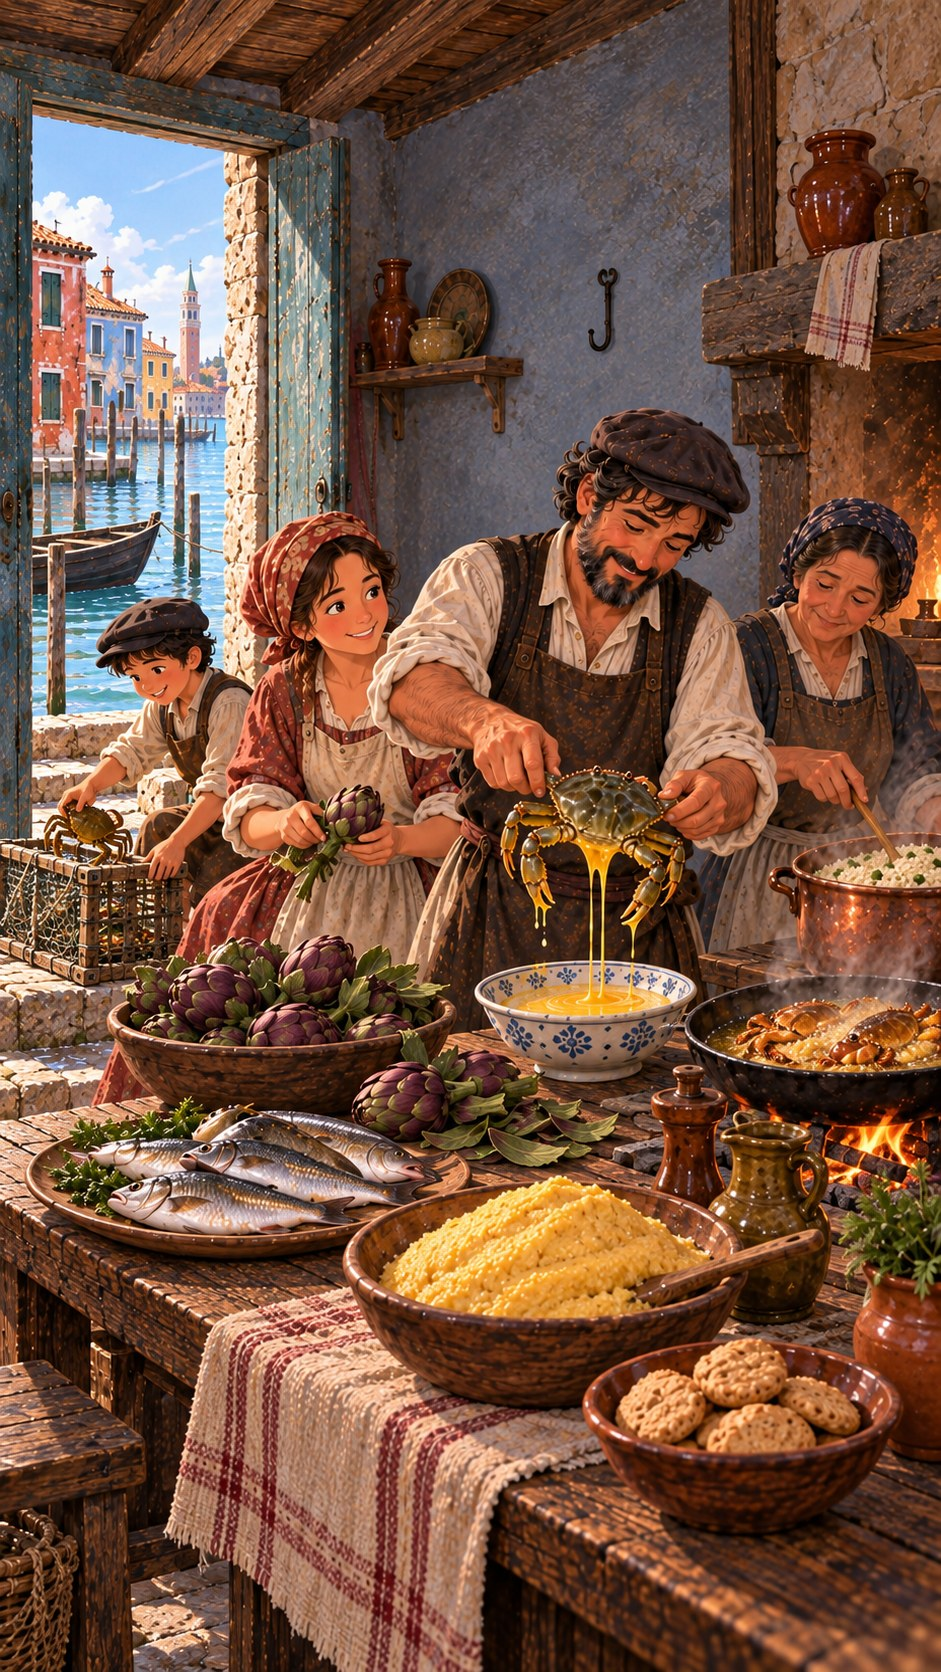
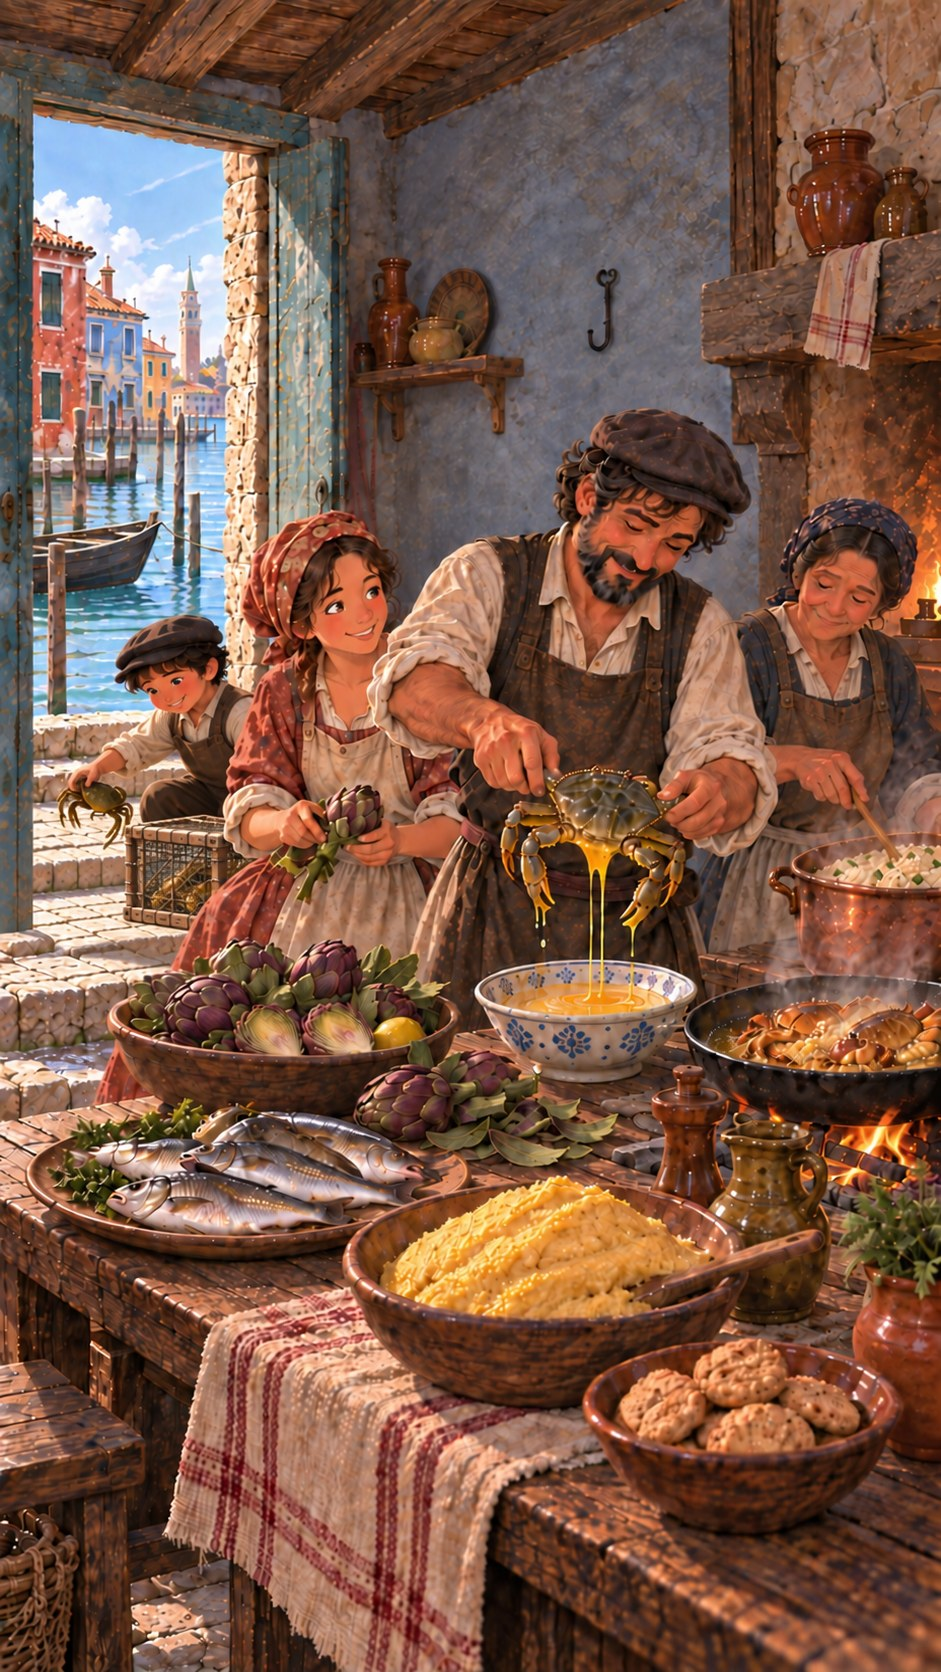
Italy: laguna portrait regenerated once, rejected again (cage dry and hidden); one picture outstanding

diff --git a/docs/italy-world.md b/docs/italy-world.md
@@ -304,7 +304,7 @@ Three smaller items for whoever opens Stage B: teach `scripts/audit/objects.mjs`
 
 All 46 files arrived in `~/Downloads/additional game asset/italy/` with `italy_concept_layout_note.md`, which is the generator's own claim about the concept and was not treated as evidence. Every picture was inspected against [art direction](art-direction.md) section 8 and Part E of the [image brief](italy-image-brief.md), at reduced size for the whole frame and at full resolution where a detail decided a verdict. Sizes were read out of the PNG headers rather than from the note.
 
-**45 accepted, 1 rejected.** The one reject is a portrait whose first discovery subject falls outside the phone band. Three portraits delivered one pixel short (941 x 1671) are accepted: the importer pads a shortfall of at most 2 px to the exact target by replicating the last row or column, so all three now land at 941 x 1672. Nothing was rejected on taste.
+**45 accepted, 1 rejected; after one regeneration on 2026-09-21 that picture is rejected again, so one picture is still outstanding.** The reject is a portrait whose first discovery subject fell outside the phone band; its regeneration brought the subject inside the band and cut the artichokes as asked, but lifted the crab cage out of the water onto dry paving and emptied it of visible crabs, which is a new fault in the same subject, so it is sent back a second time. Three portraits delivered one pixel short (941 x 1671) are accepted: the importer pads a shortfall of at most 2 px to the exact target by replicating the last row or column, so all three now land at 941 x 1672. Nothing was rejected on taste.
 
 | File | Verdict | Reason |
 | --- | --- | --- |
@@ -324,7 +324,7 @@ All 46 files arrived in `~/Downloads/additional game asset/italy/` with `italy_c
 | `it07_bacaro_wide.png` | Accepted | An osteria, not a cicchetti bar: six dishes and no more, wine drawn from the cask's brass tap into a small glass standing on the counter, half full; empty brass chain with a ring over a clear part of the counter; no toothpick row, no display case, no spritz, no labels |
 | `it07_bacaro_portrait.png` | Accepted | Salt cod on polenta, sardines under onions, cask and tap all inside the band; chain and ring at x ≈ .51 |
 | `it08_laguna_wide.png` | Accepted | Soft crab lifted out of the beaten egg with the egg running back into the bowl, floating cage at the step, frying pan and rice the only hot vessels; empty iron hook on plain render; nobody in the canal |
-| `it08_laguna_portrait.png` | **Rejected** | Discovery subject one, the floating cage of soft crabs, sits at x ≈ .00 to .17 and is cut by the phone band; the purple artichokes are also whole rather than cut in half. *Regenerate `it08_laguna_portrait.png` at 941 x 1672: move the floating crab cage and the boy at the step inward so the whole cage sits between x .094 and .906 of the width, and show two of the small purple artichokes cut in half with their cut faces toward the viewer; keep the crab lifted dripping out of the beaten egg, the empty iron hook on the plain painted wall and the open door onto the canal.* |
+| `it08_laguna_portrait.png` | **Rejected (round two, 2026-09-21)** | Round one: discovery subject one, the floating cage of soft crabs, sat at x ≈ .00 to .17 and was cut by the phone band; the purple artichokes were whole rather than cut in half. The regeneration delivered 941 x 1672 exactly and fixes both faults — the cage now sits at x ≈ .14 to .24, well inside the band, and two purple artichokes in the bowl are cut in half with their pale cut faces toward the viewer — and the empty iron hook is unmoved and still empty on the plain grey render (x ≈ .64), the crab still lifts dripping out of the beaten egg, the door still opens onto the canal, and there is no text, no modern object and no steam over the cold food. But it introduces a new fault in the same subject it was sent back to fix: the cage is no longer **the floating cage of soft crabs at the step** the brief names. It stands dry on the paving two courses above the waterline with no hand on it, its contents read as straw and indistinct gold shapes rather than small green crabs, and its right side is covered by the girl's skirt and arm — so subject one is neither the briefed subject nor unobstructed, and the portrait no longer agrees with its accepted wide, where the cage is half in the water with the boy's hand on it. *Regenerate `it08_laguna_portrait.png` at 941 x 1672: keep the cage between x .094 and .906 but put it back half out of the green canal water at the step with the boy's hand holding it at the edge and four or five small green soft crabs plainly visible through the mesh, the whole cage clear of the girl's skirt; keep the halved purple artichokes, the crab lifted dripping out of the beaten egg, the empty iron hook on the plain painted wall and the open door onto the canal.* |
 | `it09_veneto_wide.png` | Accepted | Polenta turning in the copper over the fire, board with the cutting thread across it, split red chicory; second bare chain with an empty S-hook beside the pot's chain; the salami hangs still on a separate beam; a poor table, not a feast |
 | `it09_veneto_portrait.png` | Accepted | Three subjects inside the band, bare chain at x ≈ .48, fire under the copper clean |
 | `it10_friggitoria_wide.png` | Accepted | Chickpea squares sliding off the knife into the lard which lifts and closes, copper of spleen with its tongs, split sesame roll being packed; empty iron hook on the bare stone jamb; no modern fryer, no printed wrapper |
@@ -399,4 +399,4 @@ const SCENES={...CHINA_SCENES,...TURKEY_SCENES,...SPAIN_SCENES};
 
 What was confirmed instead, without that config: all twenty-six imported JPGs decode, sit at the folder and file names the room contract fixes, and carry the sizes recorded in `scenes-props.json`. The proof is one contact sheet of the thirteen rows, wide beside portrait, at `italy-rooms-sheet.png` in the Room maker's scratchpad.
 
-**Owner rulings, 2026-09-21.** Only `it08_laguna_portrait.png` is regenerated. The three short portraits (`it06_pescaria_portrait.png`, `it11_ballaro_portrait.png`, `it13_tonnara_portrait.png`) are padded by the importer rather than regenerated. The sweeter faces across all thirteen rooms are accepted as within the house style. The pasticceria card text must not name martorana, because the fruit beside the pastry tube is a real fig, not one of the painted marzipan fruits the brief asked for.
+**Owner rulings, 2026-09-21.** Only `it08_laguna_portrait.png` is regenerated, and it is **still outstanding**: the second-round picture arrived on 2026-09-21 at 941 x 1672, was imported over `public/scenes/it_laguna/portrait.jpg` and rejected again for lifting the crab cage out of the canal, so Stage B pictures are not yet closed and no coordinate should be measured on that portrait. The three short portraits (`it06_pescaria_portrait.png`, `it11_ballaro_portrait.png`, `it13_tonnara_portrait.png`) are padded by the importer rather than regenerated. The sweeter faces across all thirteen rooms are accepted as within the house style. The pasticceria card text must not name martorana, because the fruit beside the pastry tube is a real fig, not one of the painted marzipan fruits the brief asked for.
